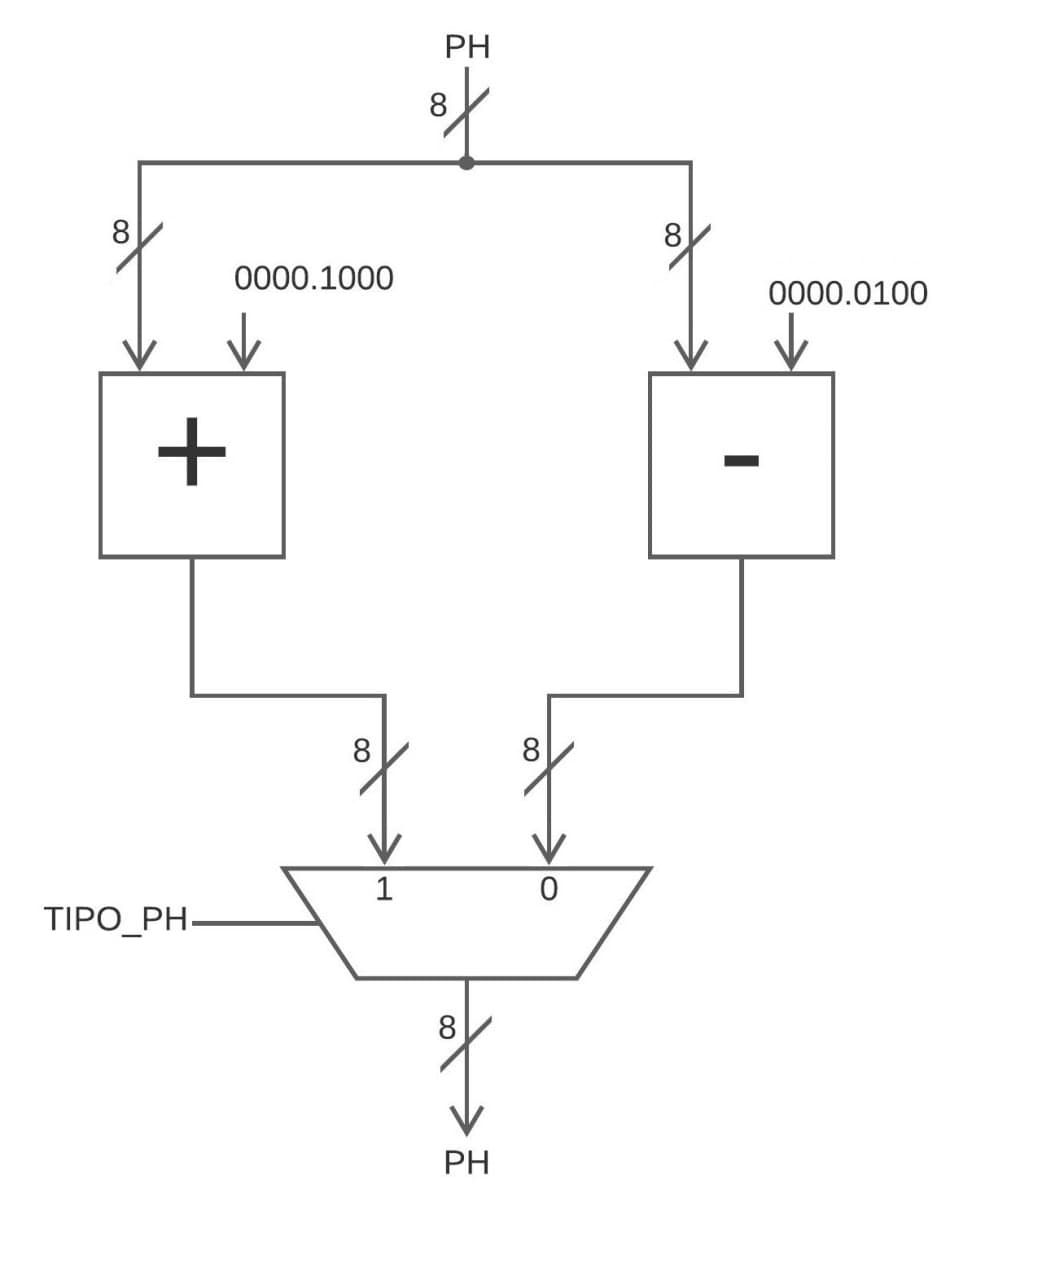
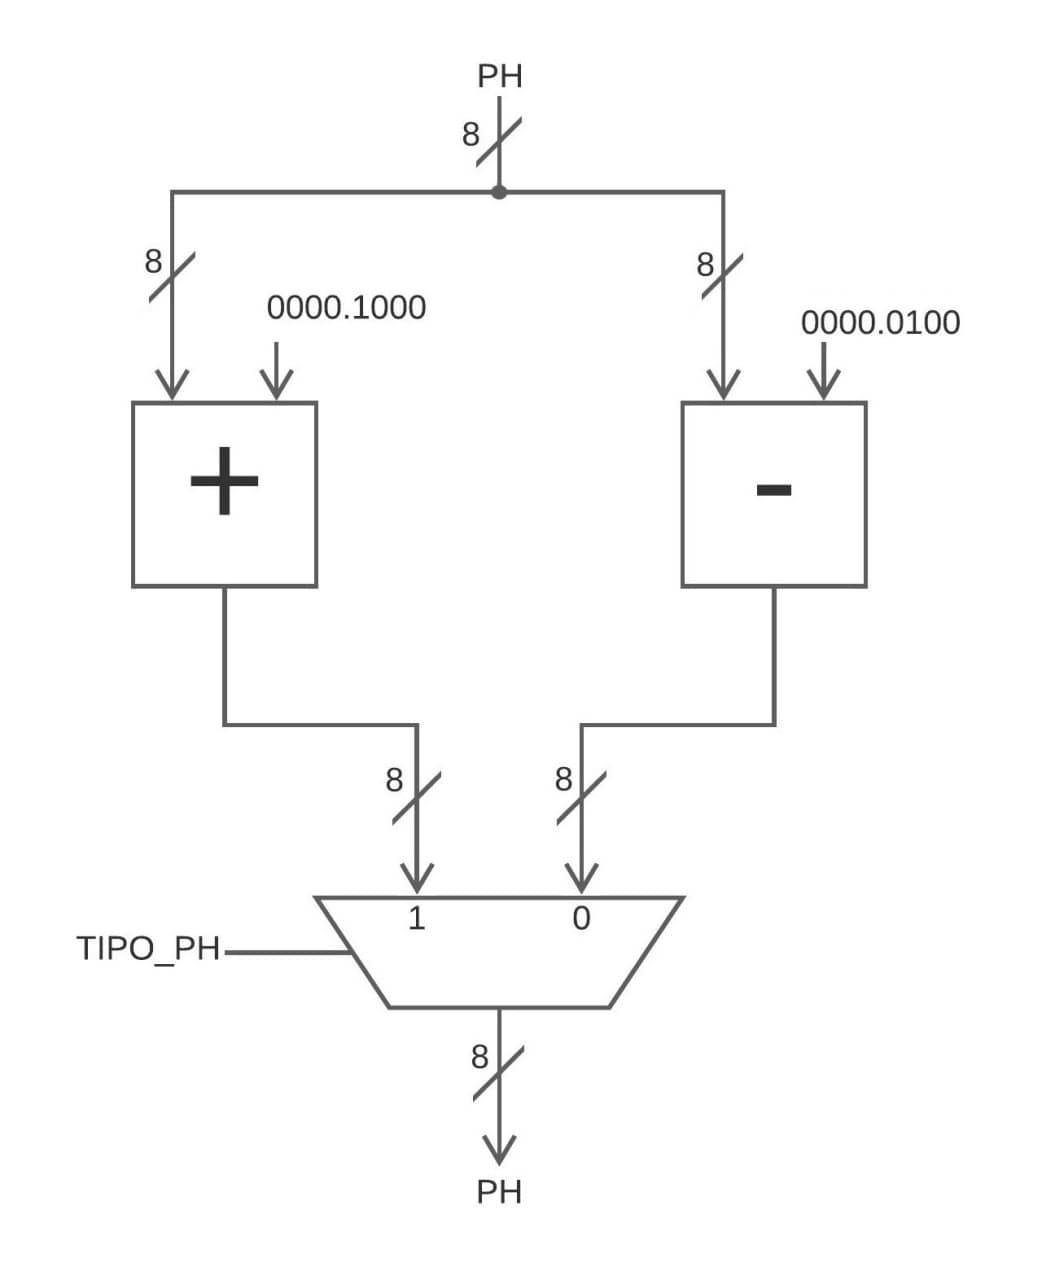
Aggiornato report e corretto nomi ingressi

Changed region(s): [[0.0614, 0.0312, 0.9213, 0.9375]]

diff --git a/docs/report.md b/docs/report.md
@@ -233,7 +233,7 @@ L'elaboratore è suddiviso a sua volta in quattro parti:
 
 Error è costituito da `1` Maggiore a 8 bit.
 
-Prende in input il valore del *pH* inserito dall'utente e controlla se esso è maggiore di `14`, se si allora stampa `1` altrimenti `0`.
+Prende in input il valore del *pH* inserito dall'utente e controlla se esso è maggiore di `14`, se si l'uscita `ERRORE = 1` altrimenti `ERRORE = 0`.
 
 ![Error](./img/Error.jpg)
 
@@ -247,7 +247,7 @@ Modifier è composto da:
 
 - `1` Multiplexer a 2 ingressi da 8 bit.
 
-Prende in input il valore del registro, somma ad esso *0.50* e sottrae *0.25*, dopodiché in base al *pH* sceglie quale valore prendere e portare in uscita.
+Prende in input il valore del registro, somma ad esso *0.50* e sottrae *0.25*, dopodiché in base al `TIPO_PH` sceglie quale valore prendere e portare in uscita.
 
 ![Modifier](./img/Modifier.jpg)
 
@@ -261,53 +261,38 @@ Neutral è composto da:
 
 - `1` NOR a 2 inressi da 1 bit.
 
-Prende in input il valore del multiplexer che seleziona fra il risultato del modifier e il registro, dopodiché controlla se esso è compreso nell'intervallo `[7, 8]`, se lo è allora restituisce 1 sennò restituisce `0`.
+Prende in input il valore del multiplexer che seleziona tra il risultato del modifier e il valore del registro, dopodiché controlla se esso è compreso nell'intervallo `[7, 8]`, se lo è allora restituisce `NEUTRO = 1` sennò restituisce `NEUTRO = 0`.
 
 ![Neutral](./img/Neutral.jpg)
 
 #### Main
 
-Il Main è l'unione di tutti gli altri componenti con l'aggiunta di:
+Il Main è il copro principale del DATA-PATH che permette di collegare gli altri componenti con l'aggiunta di:
 
-- `2` Registro a 8 bit.
+- `2` Registri a 8 bit.
 
 - `4` Multiplexer a 2 ingressi a 8 bit.
 
-Il circuito prende in input il valore del *pH* solo quando abbiamo la combinazione `START_OPERAZIONE = 1` e `RESET = 0`, mentre se abbiamo `INIZIO_OPERAZIONE = 0` e `RESET = 0` prende il valore risultante dal multiplexer che seleziona fra il valore del registro e il risultato del Modifier, se invece abbiamo `RESET = 1` il circuito si resetta.
+Il circuito prende in input il valore del *pH* solo quando abbiamo la combinazione `INIZIO_OPERAZIONE = 1` e `RESET = 0`, mentre se abbiamo `INIZIO_OPERAZIONE = 0` e `RESET = 0` prende il valore risultante dal multiplexer che seleziona fra il valore del registro e il risultato del Modifier, se invece abbiamo `RESET = 1` il circuito si resetta. Dopo aver preso il valore in input e averlo salvato in un registro, il circuito lo passa al modifier che in base al `TIPO_PH` sceglie se prendere il risultato della somma oppure quello della sottrazione, dopodiché il risultato viene filtrato da un multiplexer che in base a `STOP_OPERAZIONE` sceglie se tenere il valore del registo oppure aggiornarlo. L'uscita del multiplexer si dirama per andare dal Neutral che effettua il controllo e restituisce `CONTROLLO_NEUTRO` mentre l'altra diramazione entra nel multiplexer di `INIZIO_OPERAZIONE`.
 
 L'uscita del circuito è collocata tra l'uscita del multiplexer del reset e l'ingresso del registro, essa è filtrata da un multiplexer che in base al valore di `STOP_OPERAZIONE` se vale `0` l'uscita è `0`, invece se vale `1` l'uscita è quella del multiplexer del reset.
 
 ![DATA-PATH](./img/DATA-PATH.jpg)
 
-
-
-
-
-
-
-
-
-
-
-<!-- SCHEMA NEUTRAL -->
-
-<!--
-
-
-
-
-
-
-
-
-
-
-
-<!-- Inserisci Datapath --S>
-
 ## Statistiche del circuito
 
-Quando si prova il circuito vengono stampati dei warning con su scritto *"does not fanot"* sono le uscite dei componenti interni che non vengono portate in output quindi possono essere ingorati, essi spariranno dopo l'ottimizzazione della ***FSMD***.
+Le statistiche del circuito prima dell'ottimizzazione per area sono:
+
+```js
+
+```
+
+Le statistiche dell'FSMD dopo l'ottimizzazione sono:
+
+```js
+FSMD            pi=10   po=20   nodes= 55       latches=20
+lits(sop)= 295
+```
 
 Le statistiche del circuito prima dell'ottimizzazione per area sono:
 <!-- SCREEN STATISTICHE -S->
@@ -337,5 +322,7 @@ Durante l'implementazione del progetto abbiamo fatto le seguenti scelte progettu
 1. Se l'utente dallo stato di ***Errore*** oppure ***Neutro*** non inserisce **RST** a *1* la FSM rimane sullo stato in cui si trova.
 
 1. Per semplificare la scrittura e la lettura dei componenti in formato `blif` abbiamo suddiviso il DATA-PATH in più pezzi (`error.blif`, `modifier.blif`, `neutral.blif`, `counter.blif`) che poi abbiamo unito utilizzando i `subckt` e i `search`.
+
+1. Abbiamo aggiunto un registro per TIPO_PH essendo che senza di esso si andrebbe a creare un ciclo.
 
 -->
